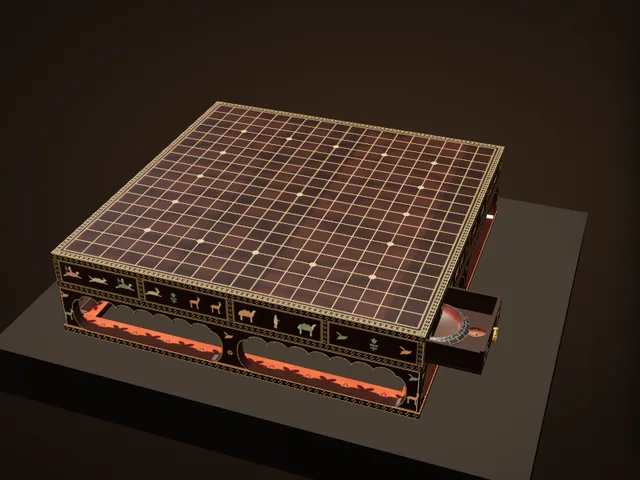
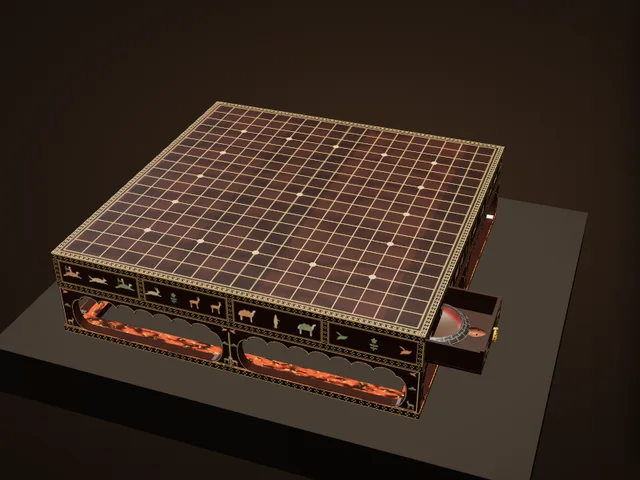
博物館：碁盤の脚の鳥・山・鹿と床枠の色、双六局の床枠の花形を写真に合わせる
Claude-Session: https://claude.ai/code/session_01EiWRAZTxRF5M5nk5vdR2jJ

Changed region(s): [[0.0938, 0.5938, 0.6875, 0.875]]

diff --git a/atlas/museum/ex/shosoin.js b/atlas/museum/ex/shosoin.js
@@ -73,6 +73,8 @@
           g.moveTo(-.8, 22); g.lineTo(-.8, -8); g.lineTo(.8, -8); g.lineTo(.8, 22); g.closePath();
           for (let q = 0; q < 5; q++) { const a = q / 5 * 6.283 - 1.57, ex = Math.cos(a) * 5.4, ey = -15 + Math.sin(a) * 5.4; g.moveTo(ex + 4.2, ey); g.ellipse(ex, ey, 4.2, 2.6, a, 0, 6.29); }
           [[4, 1], [14, .8]].forEach(([yy, k]) => [-1, 1].forEach(d => { g.moveTo(0, yy); g.quadraticCurveTo(d * 9 * k, yy - 9 * k, d * 13 * k, yy - 2); g.quadraticCurveTo(d * 8 * k, yy + 3, 0, yy); g.closePath(); })); }
+        else if (kind === 'hill') {   // little layered hills (on the legs, detail photographs)
+          [[-12, 6, 14, 9], [6, 8, 16, 11], [-2, 0, 13, 12]].forEach(([cx, by, hw, hh]) => { g.moveTo(cx - hw, by); g.quadraticCurveTo(cx - hw * .3, by - hh * 1.6, cx, by - hh); g.quadraticCurveTo(cx + hw * .5, by - hh * .9, cx + hw, by); g.closePath(); }); }
         else if (kind === 'tree') { g.moveTo(-1.6, 24); g.lineTo(-1.2, -2); g.lineTo(1.2, -2); g.lineTo(1.6, 24); g.closePath(); for (let i = 0; i < 5; i++) { const yy = -4 - i * 6, ww = 14 - i * 2.2; g.moveTo(0, yy - 6); g.quadraticCurveTo(ww, yy, 0, yy + 2); g.quadraticCurveTo(-ww, yy, 0, yy - 6); } }
         else if (kind === 'flower') { for (let i = 0; i < 6; i++) { const a = i * Math.PI / 3; g.moveTo(0, 0); g.ellipse(Math.cos(a) * 6, Math.sin(a) * 6, 6, 3, a, 0, 6.29); } }
         else if (kind === 'lion') { g.moveTo(-24, 4); g.quadraticCurveTo(-22, -12, -4, -12); g.quadraticCurveTo(8, -24, 20, -14); g.quadraticCurveTo(26, -8, 22, 0); g.lineTo(18, 22); g.lineTo(13, 22); g.lineTo(12, 6); g.lineTo(-14, 6); g.lineTo(-17, 22); g.lineTo(-21, 22); g.lineTo(-22, 6);
@@ -154,16 +156,18 @@
       const legT = K.tex(2048, Math.round(2048 * (BASE - RAIL) / S), (g, w, h) => { g.drawImage(shT.image, 0, 0, w, h); const s = w / S;
         g.strokeStyle = C.iv; g.lineWidth = s * .08; g.strokeRect(s * .15, s * .1, w - s * .3, h - s * .2);
         g.strokeStyle = '#e4cf9a'; g.lineWidth = s * .1; skirt.holes.forEach(hp => { g.beginPath(); hp.getPoints(24).forEach((p, i) => { const X = (p.x + S / 2) * s, Y = h - p.y * s; i ? g.lineTo(X, Y) : g.moveTo(X, Y); }); g.closePath(); g.stroke(); });
-        [[LEG / 2, 'bird', .8], [LEG / 2, 'deer', .3], [S / 2, 'bird', .75], [S / 2, 'flower', .35], [S - LEG / 2, 'bird', .8], [S - LEG / 2, 'deer', .3]].forEach(([x, kd, fy], i) => sil(g, kd, x * s, h * (1 - fy), s * .035, [C.box, C.grn, C.pink][i % 3])); });
+        // each leg and the post: a bird in flight at the top, hills in the middle, a deer at the foot; an ivory line down the post (detail photographs)
+        g.fillStyle = C.iv; g.fillRect(S / 2 * s - s * .05, s * .9, s * .1, h - s * 1.0);
+        [[LEG * .62, 1], [S / 2 - POST * .28, 1], [S / 2 + POST * .28, -1], [S - LEG * .62, -1]].forEach(([x, d], i) => { [['bird', .9, .022, C.box], ['hill', .56, .02, C.grn], ['deer', .13, .022, i % 2 ? C.grn : C.red]].forEach(([kd, fy, k, col]) => { g.save(); g.translate(x * s, h * (1 - fy)); g.scale(d, 1); sil(g, kd, 0, 0, s * k, col); g.restore(); }); }); });
       legT.repeat.set(1 / S, 1 / (BASE - RAIL)); legT.offset.set(.5, 0);
       const legM = K.mat({ map: legT, color: '#ffffff', roughness: .5, clearcoat: .35, clearcoatRoughness: .35 });
       for (let i = 0; i < 4; i++) { const m = new TT.Mesh(skG, [legM, shitan]), a = i * Math.PI / 2; m.position.set(Math.sin(a) * (S / 2 - 1.2), RAIL, Math.cos(a) * (S / 2 - 1.2)); m.rotation.y = a; m.scale.x = .995; G.add(m); }   // (each panel a hair short: its end face lay in the same plane as the next panel's front and the two fought at the corner legs — a flicker)
       add(new TT.BoxGeometry(S - 2.4, .5, S - 2.4), shitan, 0, BASE - .25, 0);   // the floor of the body
       // the floor rail: horn over red (華角), dark flowers; its outer faces with the lozenge band
-      const kakT = K.tex(1024, 128, (g, w, h) => { g.fillStyle = '#9c3a24'; g.fillRect(0, 0, w, h); const n = K.noise(5);
-        for (let x = 0; x < w; x += 4) for (let y = 0; y < h; y += 4) { const v = n(x / 40, y / 40, 3); g.fillStyle = `rgba(230,110,50,${(v - .5) * .4 + .08})`; g.fillRect(x, y, 4, 4); }
-        for (let i = 0; i < 10; i++) { const cx = (i + .5) * w / 10, cy = h / 2; g.fillStyle = 'rgba(40,14,8,.85)'; for (let k = 0; k < 6; k++) { const a = k / 6 * 6.283; g.beginPath(); g.ellipse(cx + Math.cos(a) * h * .18, cy + Math.sin(a) * h * .18, h * .14, h * .07, a, 0, 6.29); g.fill(); }
-          g.beginPath(); g.arc(cx, cy, h * .08, 0, 6.29); g.fill(); g.strokeStyle = 'rgba(40,14,8,.7)'; g.lineWidth = 3; g.beginPath(); g.moveTo(cx + h * .35, cy); g.quadraticCurveTo(cx + w / 20, cy - h * .35, cx + w / 10 - h * .35, cy); g.stroke(); } });
+      // (the floor frame's top: painting under a translucent sheet — a deep red ground clouded with black and specks of green and gold; the photographs)
+      const kakT = K.tex(1024, 128, (g, w, h) => { const n = K.noise(5), img = g.createImageData(w, h), d = img.data;
+        for (let y = 0; y < h; y++) for (let x = 0; x < w; x++) { const a = n(x / 26, y / 18, 3), b = n(x / 7 + 9, y / 7, 2), k = Math.max(0, Math.min(1, (a - .42) * 4)), gsp = b > .78 ? 1 : 0, i = (y * w + x) * 4;
+          d[i] = gsp ? 150 : 150 - k * 118 + b * 20; d[i + 1] = gsp ? 130 : 52 - k * 36 + b * 10; d[i + 2] = gsp ? 60 : 30 - k * 18; d[i + 3] = 255; } g.putImageData(img, 0, 0); });
       const kak = K.mat({ map: kakT, color: '#ffffff', roughness: .28, clearcoat: .85, clearcoatRoughness: .18 });
       const railSide = K.tex(2048, Math.round(2048 * RAIL / S), (g, w, h) => { g.drawImage(shT.image, 0, 0, w, h); chain(g, 0, 0, w, h, false); });
       const rsM = K.mat({ map: railSide, color: '#ffffff', roughness: .45, clearcoat: .35 });

diff --git a/atlas/museum/ex/sugoroku.js b/atlas/museum/ex/sugoroku.js
@@ -148,9 +148,14 @@
         const o = new TT.Mesh(geo, [m, inner]); o.rotation.y = ry; o.position.set(x, RAIL, z); o.scale.x = .9975;   /* (each panel a hair short: its end face lay in the same plane as the next panel's front and the two fought at the corner legs, a flicker at a distance) */ o.castShadow = o.receiveShadow = true; G.add(o); });
       add(new TT.BoxGeometry(L - 2.6, .5, W - 2.6), inner, 0, BASE - .25, 0);
       // the low rail: dark, with ivory edges and a row of ivory dots and little lozenges
+      // the floor frame's outer face (the overall photograph): an ivory line top and bottom, and between them four-petalled lozenge flowers
+      // in ivory alternating with small ivory dots
       const railT = (len) => { const s = 2048 / len; return K.tex(2048, Math.max(8, Math.round(RAIL * s)), (g, w, h) => { g.drawImage(shT.image, 0, 0, w, h);
-        g.fillStyle = C.iv; g.fillRect(0, 0, w, h * .12); g.fillRect(0, h * .88, w, h * .12);
-        for (let x = s * .9, i = 0; x < w; x += s * 1.8, i++) { if (i % 2) { g.save(); g.translate(x, h / 2); g.rotate(Math.PI / 4); g.fillRect(-h * .14, -h * .14, h * .28, h * .28); g.restore(); } else { g.beginPath(); g.arc(x, h / 2, h * .2, 0, 6.29); g.strokeStyle = C.iv; g.lineWidth = h * .08; g.stroke(); } } }); };
+        g.fillStyle = C.iv; g.fillRect(0, 0, w, h * .14); g.fillRect(0, h * .86, w, h * .14);
+        const n = Math.round(len / 2.7), st = w / n;
+        for (let i = 0; i < n; i++) { const x = (i + .5) * st, r = h * .24; g.fillStyle = C.iv;
+          for (let q = 0; q < 4; q++) { const a = q * Math.PI / 2; g.beginPath(); g.ellipse(x + Math.cos(a) * r, h / 2 + Math.sin(a) * r, r * .95, r * .55, a, 0, 6.29); g.fill(); }
+          g.fillStyle = '#3a1e12'; g.beginPath(); g.arc(x, h / 2, r * .3, 0, 6.29); g.fill(); g.fillStyle = C.iv; g.beginPath(); g.arc(x + st / 2, h / 2, h * .09, 0, 6.29); g.fill(); } }); };
       const rL = mk(railT(L)), rW = mk(railT(W));
       [[L, 1.8, 0, W / 2 - .9, 0], [L, 1.8, 0, -W / 2 + .9, Math.PI]].forEach(([len, d, x, z]) => add(new TT.BoxGeometry(len, RAIL, d), [rL, rL, inner, inner, z > 0 ? rL : inner, z > 0 ? inner : rL], x, RAIL / 2, z));
       [[1.8, W - 3.6, L / 2 - .9, 0], [1.8, W - 3.6, -L / 2 + .9, 0]].forEach(([wd, d, x]) => add(new TT.BoxGeometry(wd, RAIL, d), [x > 0 ? rW : inner, x > 0 ? inner : rW, inner, inner, inner, inner], x, RAIL / 2, 0));

diff --git a/atlas/museum.js b/atlas/museum.js
@@ -32,7 +32,7 @@
   const ROOMS = [
     { id: 'map', ready: () => !!window.AtlasMap, render: (el, c) => AtlasMap.render(el, c) },
     { id: 'tree', src: ['museum/tree.js?v=3'], ready: () => !!window.AtlasTree, render: (el, c) => AtlasTree.render(el, c) },
-    { id: 'gallery', src: ['museum/gallery.js?v=58'], ready: () => !!window.AtlasGallery, render: (el, c) => AtlasGallery.render(el, c) },
+    { id: 'gallery', src: ['museum/gallery.js?v=59'], ready: () => !!window.AtlasGallery, render: (el, c) => AtlasGallery.render(el, c) },
   ];
   const KEY = 'atlas-museum-room';
   const esc = s => String(s == null ? '' : s).replace(/[&<>"]/g, c => ({ '&': '&amp;', '<': '&lt;', '>': '&gt;', '"': '&quot;' }[c]));

diff --git a/atlas/index.html b/atlas/index.html
@@ -2559,7 +2559,7 @@ window.AtlasRgdTimer = function (btn, ms, alive) {
 <link rel="stylesheet" href="worldmap.css?v=19">
 <link rel="stylesheet" href="museum.css?v=4">
 <script src="worldmap.js?v=40"></script>
-<script src="museum.js?v=59"></script>
+<script src="museum.js?v=60"></script>
 <script src="npc/npc.js?v=46"></script>
 <script src="avtalk.js?v=4"></script>
 <script>/* Page states as classes on <html> (2026-11-21) — html.cov-on: the 3D view / Historia / a sheet / a level sheet is open;

diff --git a/atlas/museum/gallery.js b/atlas/museum/gallery.js
@@ -10,7 +10,7 @@
    (a turn, a zoom, the slow turntable) and never while the window is in the background. */
 (function () {
   'use strict';
-  const V = 58;
+  const V = 59;
   /* ---------- the pieces: id, the game it belongs to, its scale (cm per model unit), the camera's start, the details ----------
      lock: { game, ach } → open after that many achievements of the game. src: the files the piece needs (besides ex/<id>.js) */
   const EX = [
